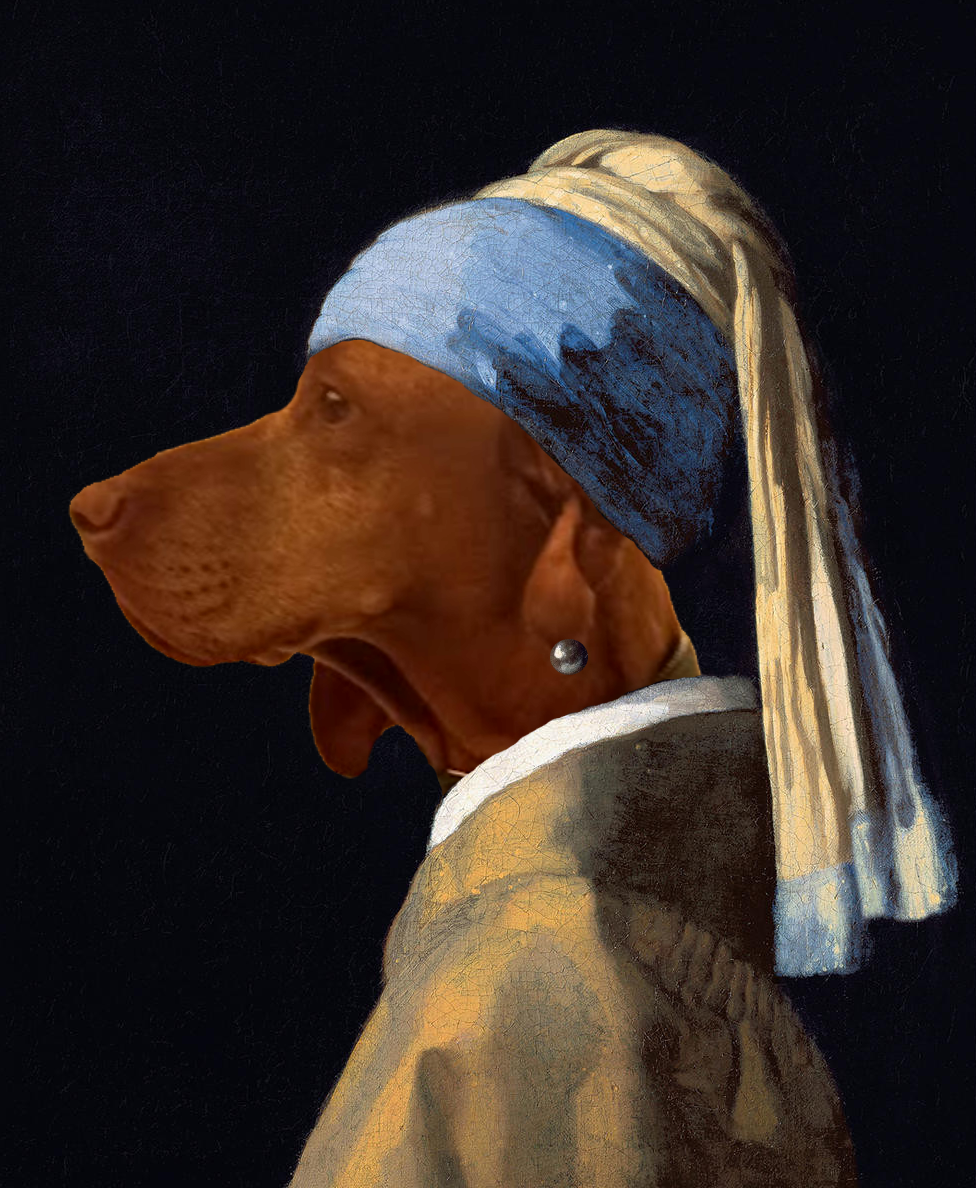
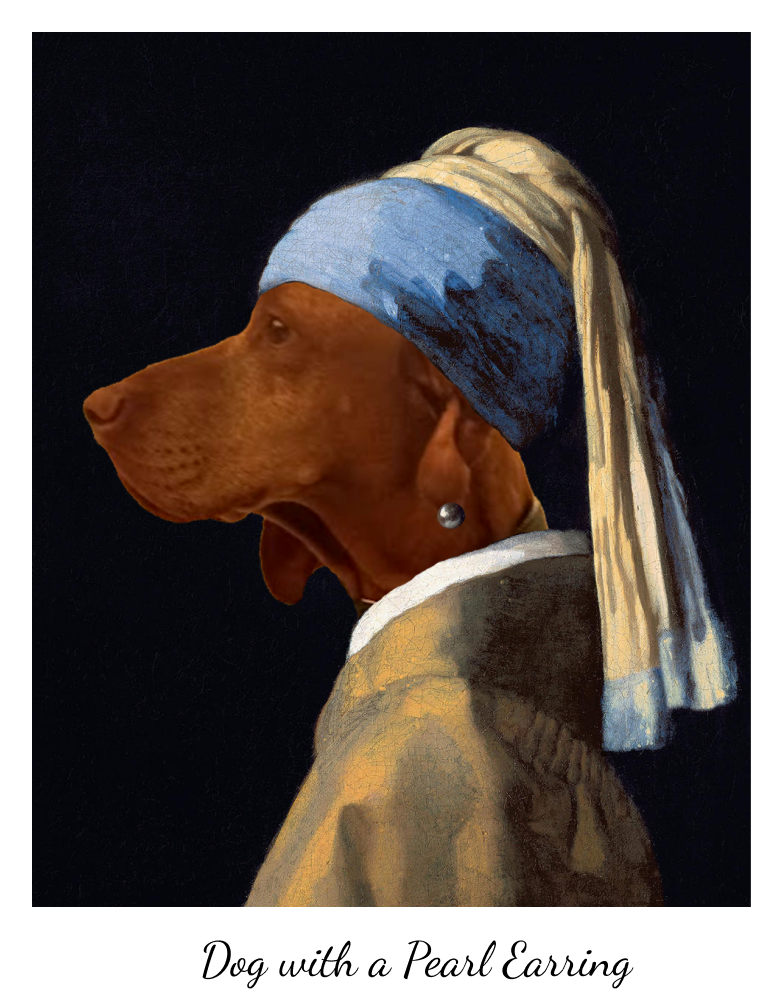
added mango image

diff --git a/index.html b/index.html
@@ -215,7 +215,7 @@
                         <h2 class="card-banner js-card-banner">Blog post - Interview tips & tricks</h2>
                         <a class="link" href="https://rb.gy/u6paz4" target="_blank"></a>
                     </section>
-                    
+
                     <section class="card js-animation app-eu-fund applications">
                         <h2 class="card-banner js-card-banner">
                             Speaker on discussion on the state of gender equality
@@ -386,60 +386,60 @@
                 </header>
             </div>
 
-                <div id="carouselExampleIndicators" class="carousel slide">
-                    <div class="carousel-indicators">
-                        <button type="button" data-bs-target="#carouselExampleIndicators" data-bs-slide-to="0"
-                            class="active" aria-current="true" aria-label="Slide 1"></button>
-                        <button type="button" data-bs-target="#carouselExampleIndicators" data-bs-slide-to="1"
-                            aria-label="Slide 2"></button>
-                        <button type="button" data-bs-target="#carouselExampleIndicators" data-bs-slide-to="2"
-                            aria-label="Slide 3"></button>
-                        <button type="button" data-bs-target="#carouselExampleIndicators" data-bs-slide-to="3"
-                            aria-label="Slide 4"></button>
-                        <button type="button" data-bs-target="#carouselExampleIndicators" data-bs-slide-to="4"
-                            aria-label="Slide 5"></button>
-                    </div>
-
-                    <div class="carousel-inner">
-                        <div class="carousel-item active">
-                            <img src="./assets/images/art/man-Gogh.png" class="d-block carousel-image"
-                                alt="Image of vizsla Mango in style of van Gogh">
-                        </div>
-
-                        <div class="carousel-item">
-                            <img src="./assets/images/art/girlmango.png" class="d-block carousel-image"
-                                alt="Image of vizsla Mango in style of Girl with a peral earring">
-                        </div>
-
-                        <div class="carousel-item">
-                            <img src="./assets/images/art/mangritte.png" class="d-block carousel-image"
-                                alt="Image of vizsla Mango in style of Magrit">
-                        </div>
-
-                        <div class="carousel-item">
-                            <img src="./assets/images/art/Muncho.jpg" class="d-block carousel-image"
-                                alt="Image of vizsla Mango in style of Muncho">
-                        </div>
-
-                        <div class="carousel-item">
-                            <img src="./assets/images/art/Chien-Roux.jpg" class="d-block carousel-image"
-                                alt="Image of vizsla Mango in style of art nouve">
-                        </div>
-                    </div>
-
-                    <button class="carousel-control-prev" type="button" data-bs-target="#carouselExampleIndicators"
-                        data-bs-slide="prev">
-                        <span class="carousel-control-prev-icon icon-arrow-left scroll-button" aria-hidden="true"></span>
-                        <span class="visually-hidden">Previous</span>
-                    </button>
-                    <button class="carousel-control-next" type="button" data-bs-target="#carouselExampleIndicators"
-                        data-bs-slide="next">
-                        <span class="carousel-control-next-icon icon-arrow-right scroll-button" aria-hidden="true"></span>
-                        <span class="visually-hidden">Next</span>
-                    </button>
+            <div id="carouselExampleIndicators" class="carousel slide">
+                <div class="carousel-indicators">
+                    <button type="button" data-bs-target="#carouselExampleIndicators" data-bs-slide-to="0"
+                        class="active" aria-current="true" aria-label="Slide 1"></button>
+                    <button type="button" data-bs-target="#carouselExampleIndicators" data-bs-slide-to="1"
+                        aria-label="Slide 2"></button>
+                    <button type="button" data-bs-target="#carouselExampleIndicators" data-bs-slide-to="2"
+                        aria-label="Slide 3"></button>
+                    <button type="button" data-bs-target="#carouselExampleIndicators" data-bs-slide-to="3"
+                        aria-label="Slide 4"></button>
+                    <button type="button" data-bs-target="#carouselExampleIndicators" data-bs-slide-to="4"
+                        aria-label="Slide 5"></button>
                 </div>
 
-                <a href="#contact" class="icon-arrow-down scroll-button center"></a>
+                <div class="carousel-inner">
+                    <div class="carousel-item active">
+                        <img src="./assets/images/design/mango/man-Gogh.png" class="d-block carousel-image"
+                            alt="Image of vizsla Mango in style of van Gogh">
+                    </div>
+
+                    <div class="carousel-item">
+                        <img src="./assets/images//design/mango/dog-pearl.png" class="d-block carousel-image"
+                            alt="Image of vizsla Mango in style of Girl with a peral earring">
+                    </div>
+
+                    <div class="carousel-item">
+                        <img src="./assets/images/design/mango/mangritte.png" class="d-block carousel-image"
+                            alt="Image of vizsla Mango in style of Magrit">
+                    </div>
+
+                    <div class="carousel-item">
+                        <img src="./assets/images/design/mango/Muncho.jpg" class="d-block carousel-image"
+                            alt="Image of vizsla Mango in style of Muncho">
+                    </div>
+
+                    <div class="carousel-item">
+                        <img src="./assets/images/art/Chien-Roux.jpg" class="d-block carousel-image"
+                            alt="Image of vizsla Mango in style of art nouve">
+                    </div>
+                </div>
+
+                <button class="carousel-control-prev" type="button" data-bs-target="#carouselExampleIndicators"
+                    data-bs-slide="prev">
+                    <span class="carousel-control-prev-icon icon-arrow-left scroll-button" aria-hidden="true"></span>
+                    <span class="visually-hidden">Previous</span>
+                </button>
+                <button class="carousel-control-next" type="button" data-bs-target="#carouselExampleIndicators"
+                    data-bs-slide="next">
+                    <span class="carousel-control-next-icon icon-arrow-right scroll-button" aria-hidden="true"></span>
+                    <span class="visually-hidden">Next</span>
+                </button>
+            </div>
+
+            <a href="#contact" class="icon-arrow-down scroll-button center"></a>
         </section>
 
         <section id="contact" class="contact border-top-accent">
@@ -449,19 +449,19 @@
                     <h3 class="title">Get in touch</h3>
                 </header>
 
-                <input type="hidden" name="contact_number">                
+                <input type="hidden" name="contact_number">
                 <input name="user_name" type="text" id="name" class="input-field" placeholder="What is your name?"
-                required>
+                    required>
 
                 <input name="user_email" type="email" id="email" class="input-field" placeholder="What is your email?"
-                required>
+                    required>
 
                 <input name="user_subject" type="text" id="title" class="input-field" placeholder="Title of our topic"
-                required>
+                    required>
 
                 <textarea name="message" id="message" class="textarea" cols="30" rows="10"
-                placeholder="Description of our topic" required></textarea>
-                
+                    placeholder="Description of our topic" required></textarea>
+
                 <button class="button-accent" type="submit">Send</button>
 
                 <p class="status-success status-message">Message was successfully sent!</p>
